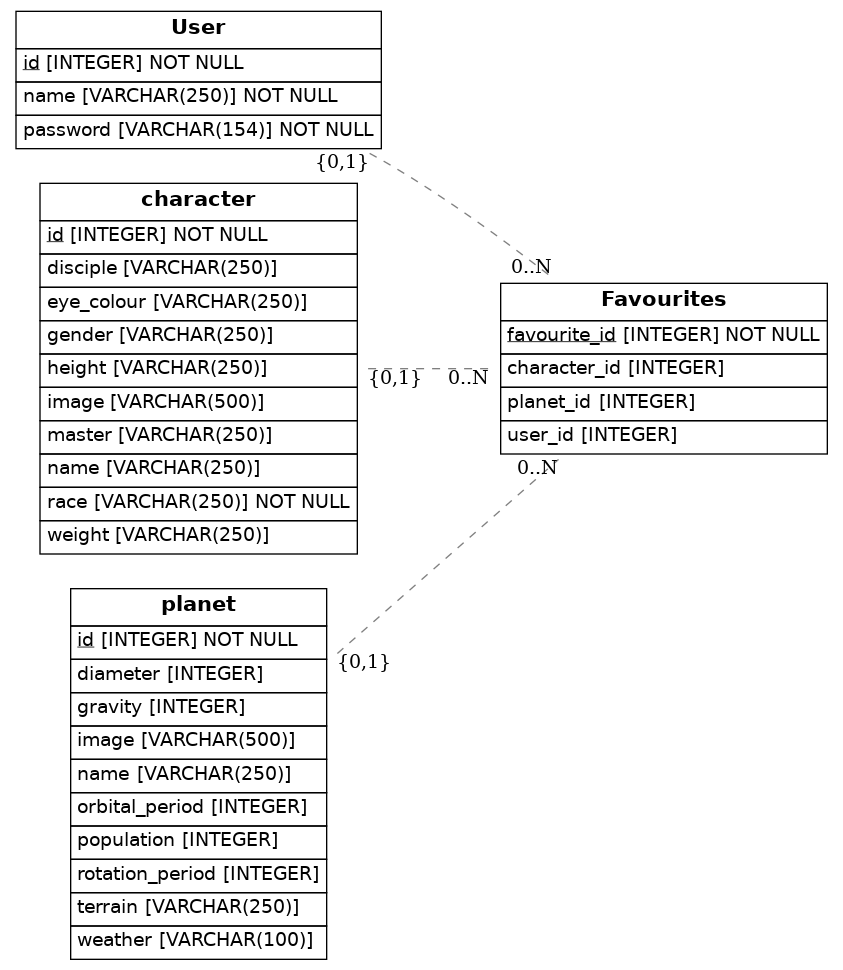
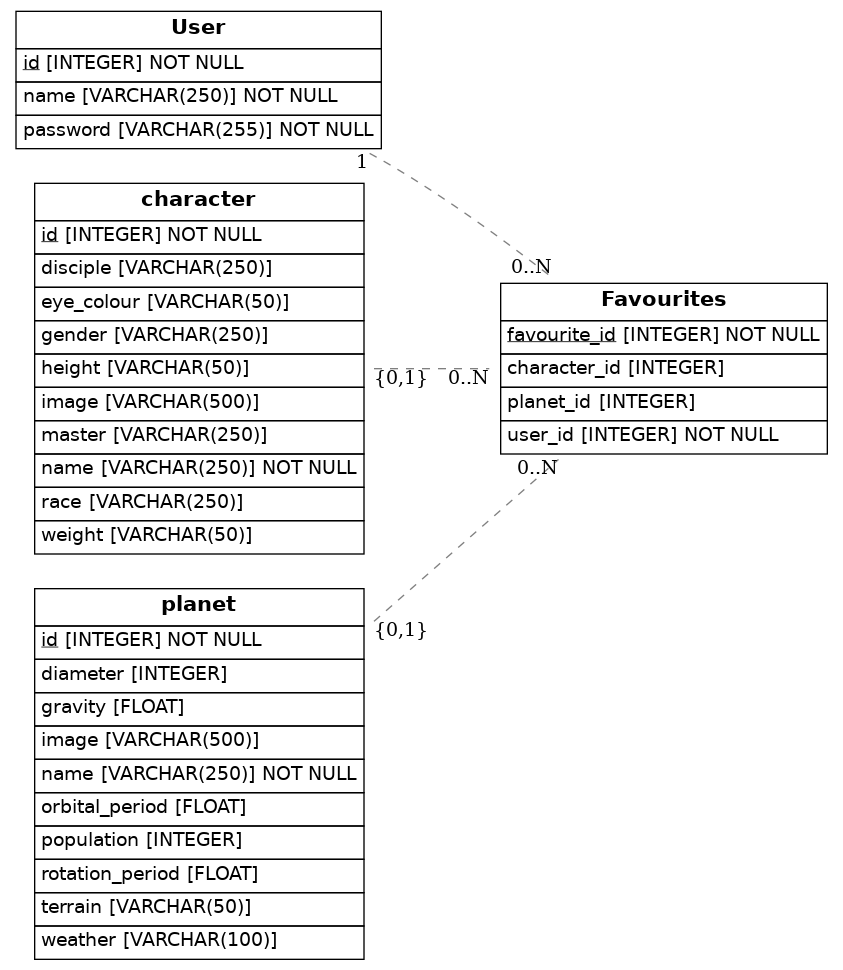
ajustadas longitudes de string permitidas, cambio de tipo de algunos campos y añadidos email y teléfono

diff --git a/src/models.py b/src/models.py
@@ -1,6 +1,6 @@
 import os
 import sys
-from sqlalchemy import Column, ForeignKey, Integer, String
+from sqlalchemy import Column, ForeignKey, Integer, String, Float
 from sqlalchemy.orm import relationship, declarative_base
 from sqlalchemy import create_engine
 from eralchemy2 import render_er
@@ -14,45 +14,44 @@ class User(Base):
     # Notice that each column is also a normal Python instance attribute.
     id = Column(Integer, primary_key=True)
     name = Column(String(250), nullable=False)
-    password = Column(String(154), nullable=False)
+    password = Column(String(255), nullable=False)
+    email = Column(String(250))
+    phone_number = Column(Integer)
     favourites = relationship("favourites", back_populates="user")
     
 class Character(Base):
     __tablename__ = 'character'
     id = Column(Integer, primary_key=True)
-    name = Column(String(250))
+    name = Column(String(250), nullable=False)
     gender = Column(String(250))
-    race = Column(String(250), nullable=False)
-    eye_colour = Column(String(250))
-    height = Column(String(250))
-    weight = Column(String(250))
+    race = Column(String(250))
+    eye_colour = Column(String(50))
+    height = Column(String(50))
+    weight = Column(String(50))
     master = Column(String(250))
     disciple = Column(String(250))
     image = Column(String(500))
-    # parent = relationship("Parent", back_populates="children")
 
 
 class Planet(Base):
     __tablename__ = 'planet'
     id = Column(Integer, primary_key=True)
-    name = Column(String(250))
+    name = Column(String(250), nullable=False)
     diameter = Column(Integer)
     weather = Column(String(100))
-    rotation_period = Column(Integer)
-    orbital_period = Column(Integer)
-    gravity = Column(Integer)
+    rotation_period = Column(Float)
+    orbital_period = Column(Float)
+    gravity = Column(Float)
     population = Column(Integer)
-    terrain = Column(String(250))
+    terrain = Column(String(100))
     image = Column(String(500))
 
 class Favourites(Base):
     __tablename__ = 'Favourites'
-    # Here we define columns for the table address.
-    # Notice that each column is also a normal Python instance attribute.
     favourite_id = Column(Integer, primary_key=True)
     character_id = Column(Integer, ForeignKey("character.id"))
     planet_id = Column(Integer, ForeignKey("planet.id"))
-    user_id = Column(Integer, ForeignKey("User.id"))
+    user_id = Column(Integer, ForeignKey("User.id"), nullable=False)
     user = relationship("User", back_populates="favourites")
 
 
